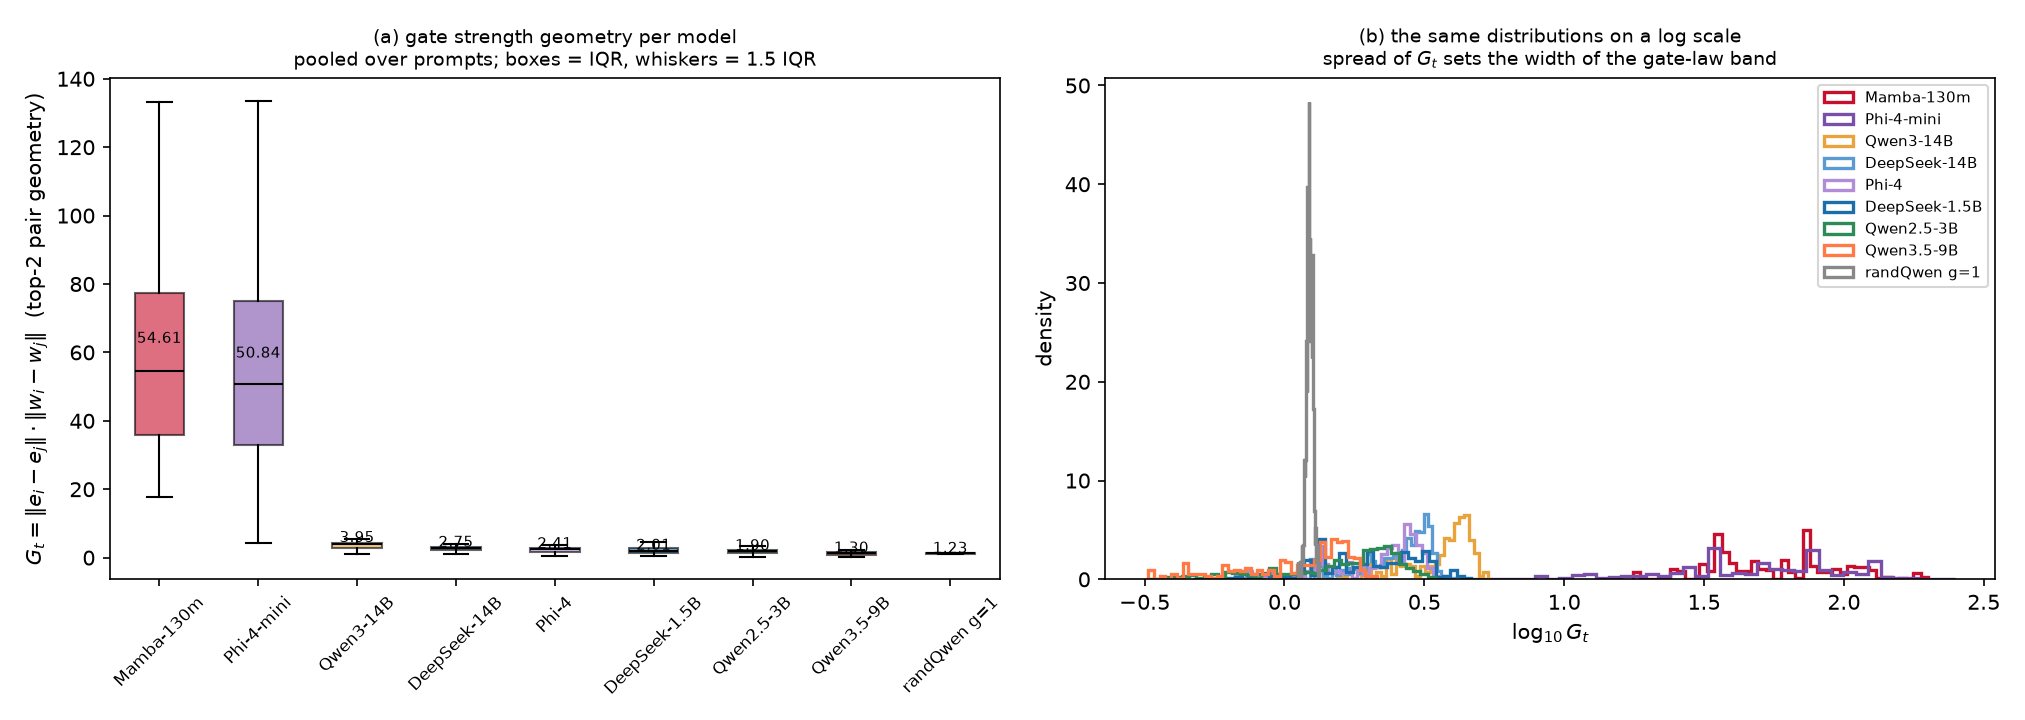
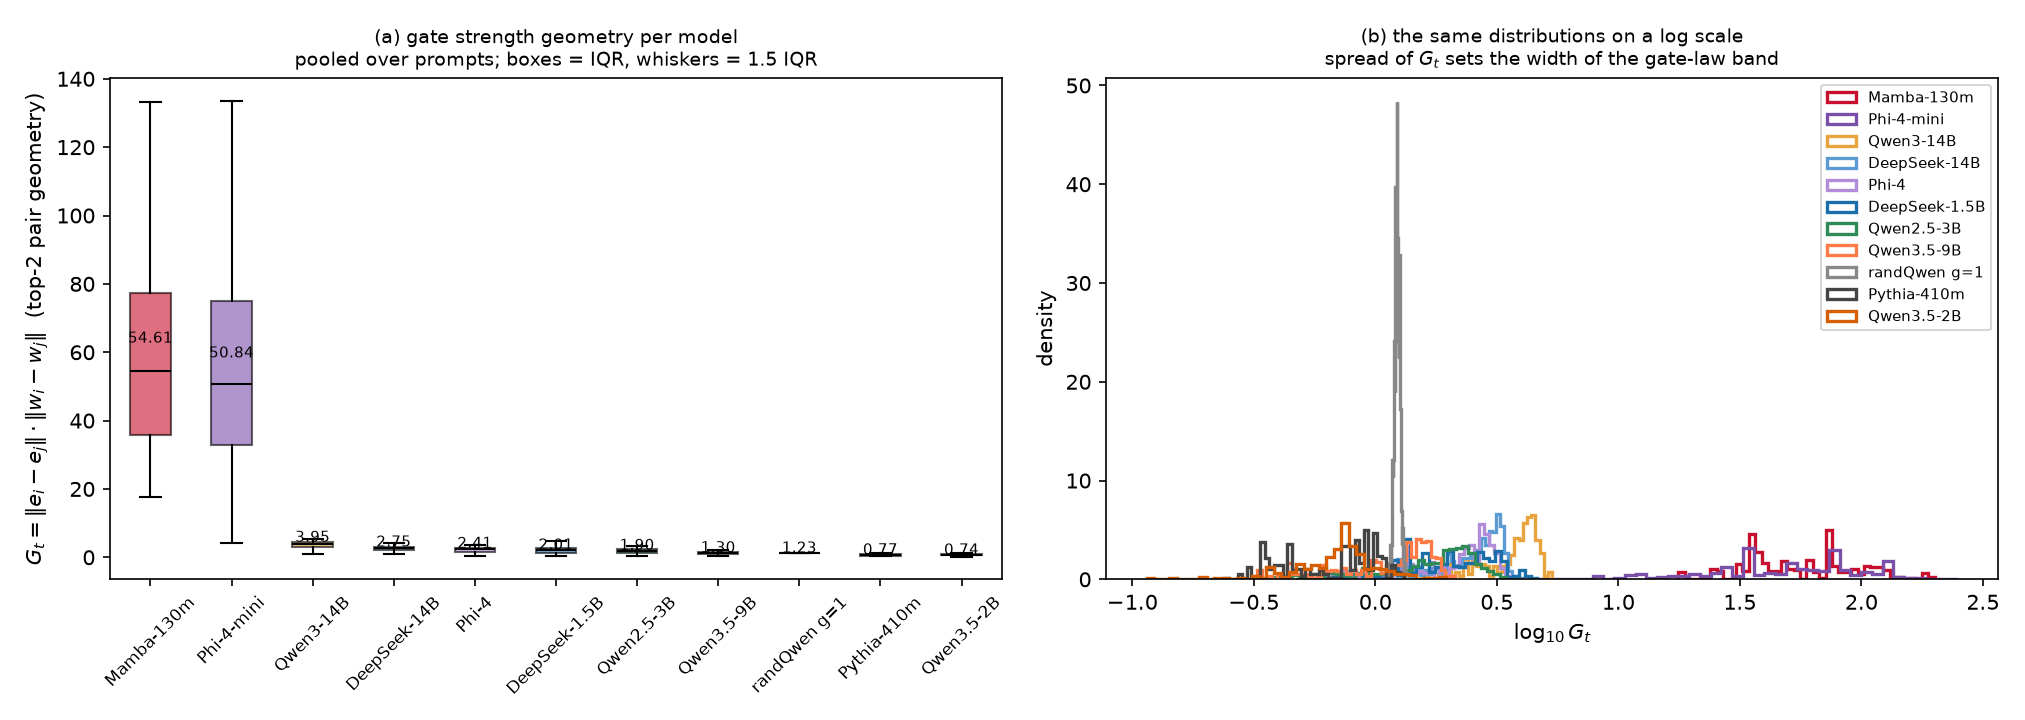
Qwen3.5-2B hybrid grid (7 architectures measured), memory fix for run_softloop, phi requeue

diff --git a/notebook/new.html b/notebook/new.html
@@ -42,7 +42,7 @@ img, table, pre, .katex-display { break-inside: avoid; page-break-inside: avoid;
 </style>
 </head><body>
 <header class="banner">
-  new.md &nbsp;&middot;&nbsp; built 2026-11-23 02:31:52 &nbsp;&middot;&nbsp;
+  new.md &nbsp;&middot;&nbsp; built 2026-11-23 04:26:30 &nbsp;&middot;&nbsp;
   <a href="new.pdf">PDF</a> &nbsp;&middot;&nbsp;
   <a href="new.md">Markdown</a> &nbsp;&middot;&nbsp;
   <a href="./">all documents</a> &nbsp;&middot;&nbsp; <a href="controls.html">controls</a> &middot; <a href="master.html">master</a> &middot; <a href="veto.html">veto</a> &middot; <a href="notebook.html">notebook</a>
@@ -641,6 +641,16 @@ stands: <strong>the loop is more fragile than greedy at the same radius</strong>
 at $T=0.1$ the effective flip threshold drops from $m\lesssim|\delta m|$
 (greedy) to $m\lesssim T$ (gates), so the loop amplifies from near-ties
 that greedy would have survived.</p>
+<p><strong>Qwen3.5-2B</strong> (hybrid, fp32, $r=0.1$, 16 directions — the env-repaired
+venv311): $T\to0$: 8/16 directions separate by 550 steps (consistent with
+its greedy flux-tube radius $r_*\approx0.20$ median); then
+299 $\to$ 82 $\to$ 39 $\to$ 39 for $T=0.1...1.0$, recovering to 166 at
+$T=1.4$. The same four-regime band on the last missing architecture
+family. <strong>The phase structure is now measured on seven architectures</strong>
+(DeepSeek-1.5B, Qwen2.5-3B, Qwen3-4B, Qwen3.5-2B fp32; Qwen3.5-9B
+fp16; Pythia-410m; Mamba-130m) plus the degenerate random-weight control,
+and nowhere does the network part ($\lambda_{net}$) leave
+$[-0.002,+0.001]$ nats/step.</p>
 <hr />
 <h2 id="9-sampling-as-a-random-dynamical-system-the-common-random-number-experiment">9. Sampling as a random dynamical system (the common-random-number experiment)</h2>
 <p><strong>Setup.</strong> Same loop, but instead of the expected embedding, a token is

diff --git a/src/chaos_llm/run_softloop.py b/src/chaos_llm/run_softloop.py
@@ -63,8 +63,8 @@ def topk_crosscov_sigma(p, E, W, k=64, iters=30, return_M=False, sv_out=0):
     if float(pv[-1]) <= 0.0:
         k = int((pv > 0).sum().item())
         pv, iv = pv[:k], iv[:k]
-    e = E[iv]
-    w = W[iv]
+    e = E[iv].float()          # row-wise cast: works in fp16 or fp32 models
+    w = W[iv].float()
     ebar = (pv[:, None] * e).sum(0)
     wbar = (pv[:, None] * w).sum(0)
     # accumulate M = sum_i pv_i (e_i-ebar)(w_i-wbar)^T row by row
@@ -163,12 +163,11 @@ def main():
     if D is None:
         D = getattr(getattr(cfg, "text_config", cfg), "hidden_size")
     del cfg
-    Emb = model.get_input_embeddings().weight.detach().float()  # [V, d] fp32 view
-    embed_dtype = model.get_input_embeddings().weight.dtype      # fp16 models feed fp16
+    Emb = model.get_input_embeddings().weight.detach()      # [V, d], model dtype
+    embed_dtype = Emb.dtype
     if hasattr(model, "lm_head") and getattr(model, "lm_head", None) is not None:
         Wout = model.lm_head.weight.detach()
         tied = Wout.shape == Emb.shape and bool(torch.equal(Wout, Emb))
-        Wout = Wout.float()
     else:
         Wout, tied = Emb, True
 
@@ -251,9 +250,8 @@ def main():
         sig_read[t] = sig
         sv_read[:, t] = sv.cpu().numpy()
         cov64[t] = float(torch.topk(p, 64).values.sum())
-        if args.feedback == "soft":
-            e_ref[t] = (p[:, None] * Emb).sum(0).cpu().numpy()
-        # token modes: e_ref is recorded after the draw, from what was fed
+        # e_ref is recorded after the feed section from what the reference
+        # row actually received (avoids a [V,d] product per step)
 
         # argmax per row (flip record)
         am = torch.argmax(logits, -1)
@@ -263,9 +261,11 @@ def main():
         # next input embedding
         if args.mode == "replay":
             e_next = e_file[t][None].expand(B, -1).contiguous().to(embed_dtype)
+            e_ref[t] = e_next[0].float().cpu().numpy()
         elif args.feedback == "soft":
             pt = torch.softmax(logits / args.temp, -1)  # [B, V] fp32
-            e_next = (pt @ Emb).to(embed_dtype)        # [B, D] in the model's dtype
+            e_next = (pt.to(embed_dtype) @ Emb).to(embed_dtype)  # [B, D]
+            e_ref[t] = e_next[0].float().cpu().numpy()
         elif args.feedback == "argmax":
             ids = torch.argmax(logits, -1)
             e_next = Emb[ids].to(embed_dtype)

diff --git a/notebook/new.md b/notebook/new.md
@@ -449,6 +449,17 @@ at $T=0.1$ the effective flip threshold drops from $m\lesssim|\delta m|$
 (greedy) to $m\lesssim T$ (gates), so the loop amplifies from near-ties
 that greedy would have survived.
 
+**Qwen3.5-2B** (hybrid, fp32, $r=0.1$, 16 directions — the env-repaired
+venv311): $T\to0$: 8/16 directions separate by 550 steps (consistent with
+its greedy flux-tube radius $r_*\approx0.20$ median); then
+299 $\to$ 82 $\to$ 39 $\to$ 39 for $T=0.1...1.0$, recovering to 166 at
+$T=1.4$. The same four-regime band on the last missing architecture
+family. **The phase structure is now measured on seven architectures**
+(DeepSeek-1.5B, Qwen2.5-3B, Qwen3-4B, Qwen3.5-2B fp32; Qwen3.5-9B
+fp16; Pythia-410m; Mamba-130m) plus the degenerate random-weight control,
+and nowhere does the network part ($\lambda_{net}$) leave
+$[-0.002,+0.001]$ nats/step.
+
 ---
 
 ## 9. Sampling as a random dynamical system (the common-random-number experiment)
